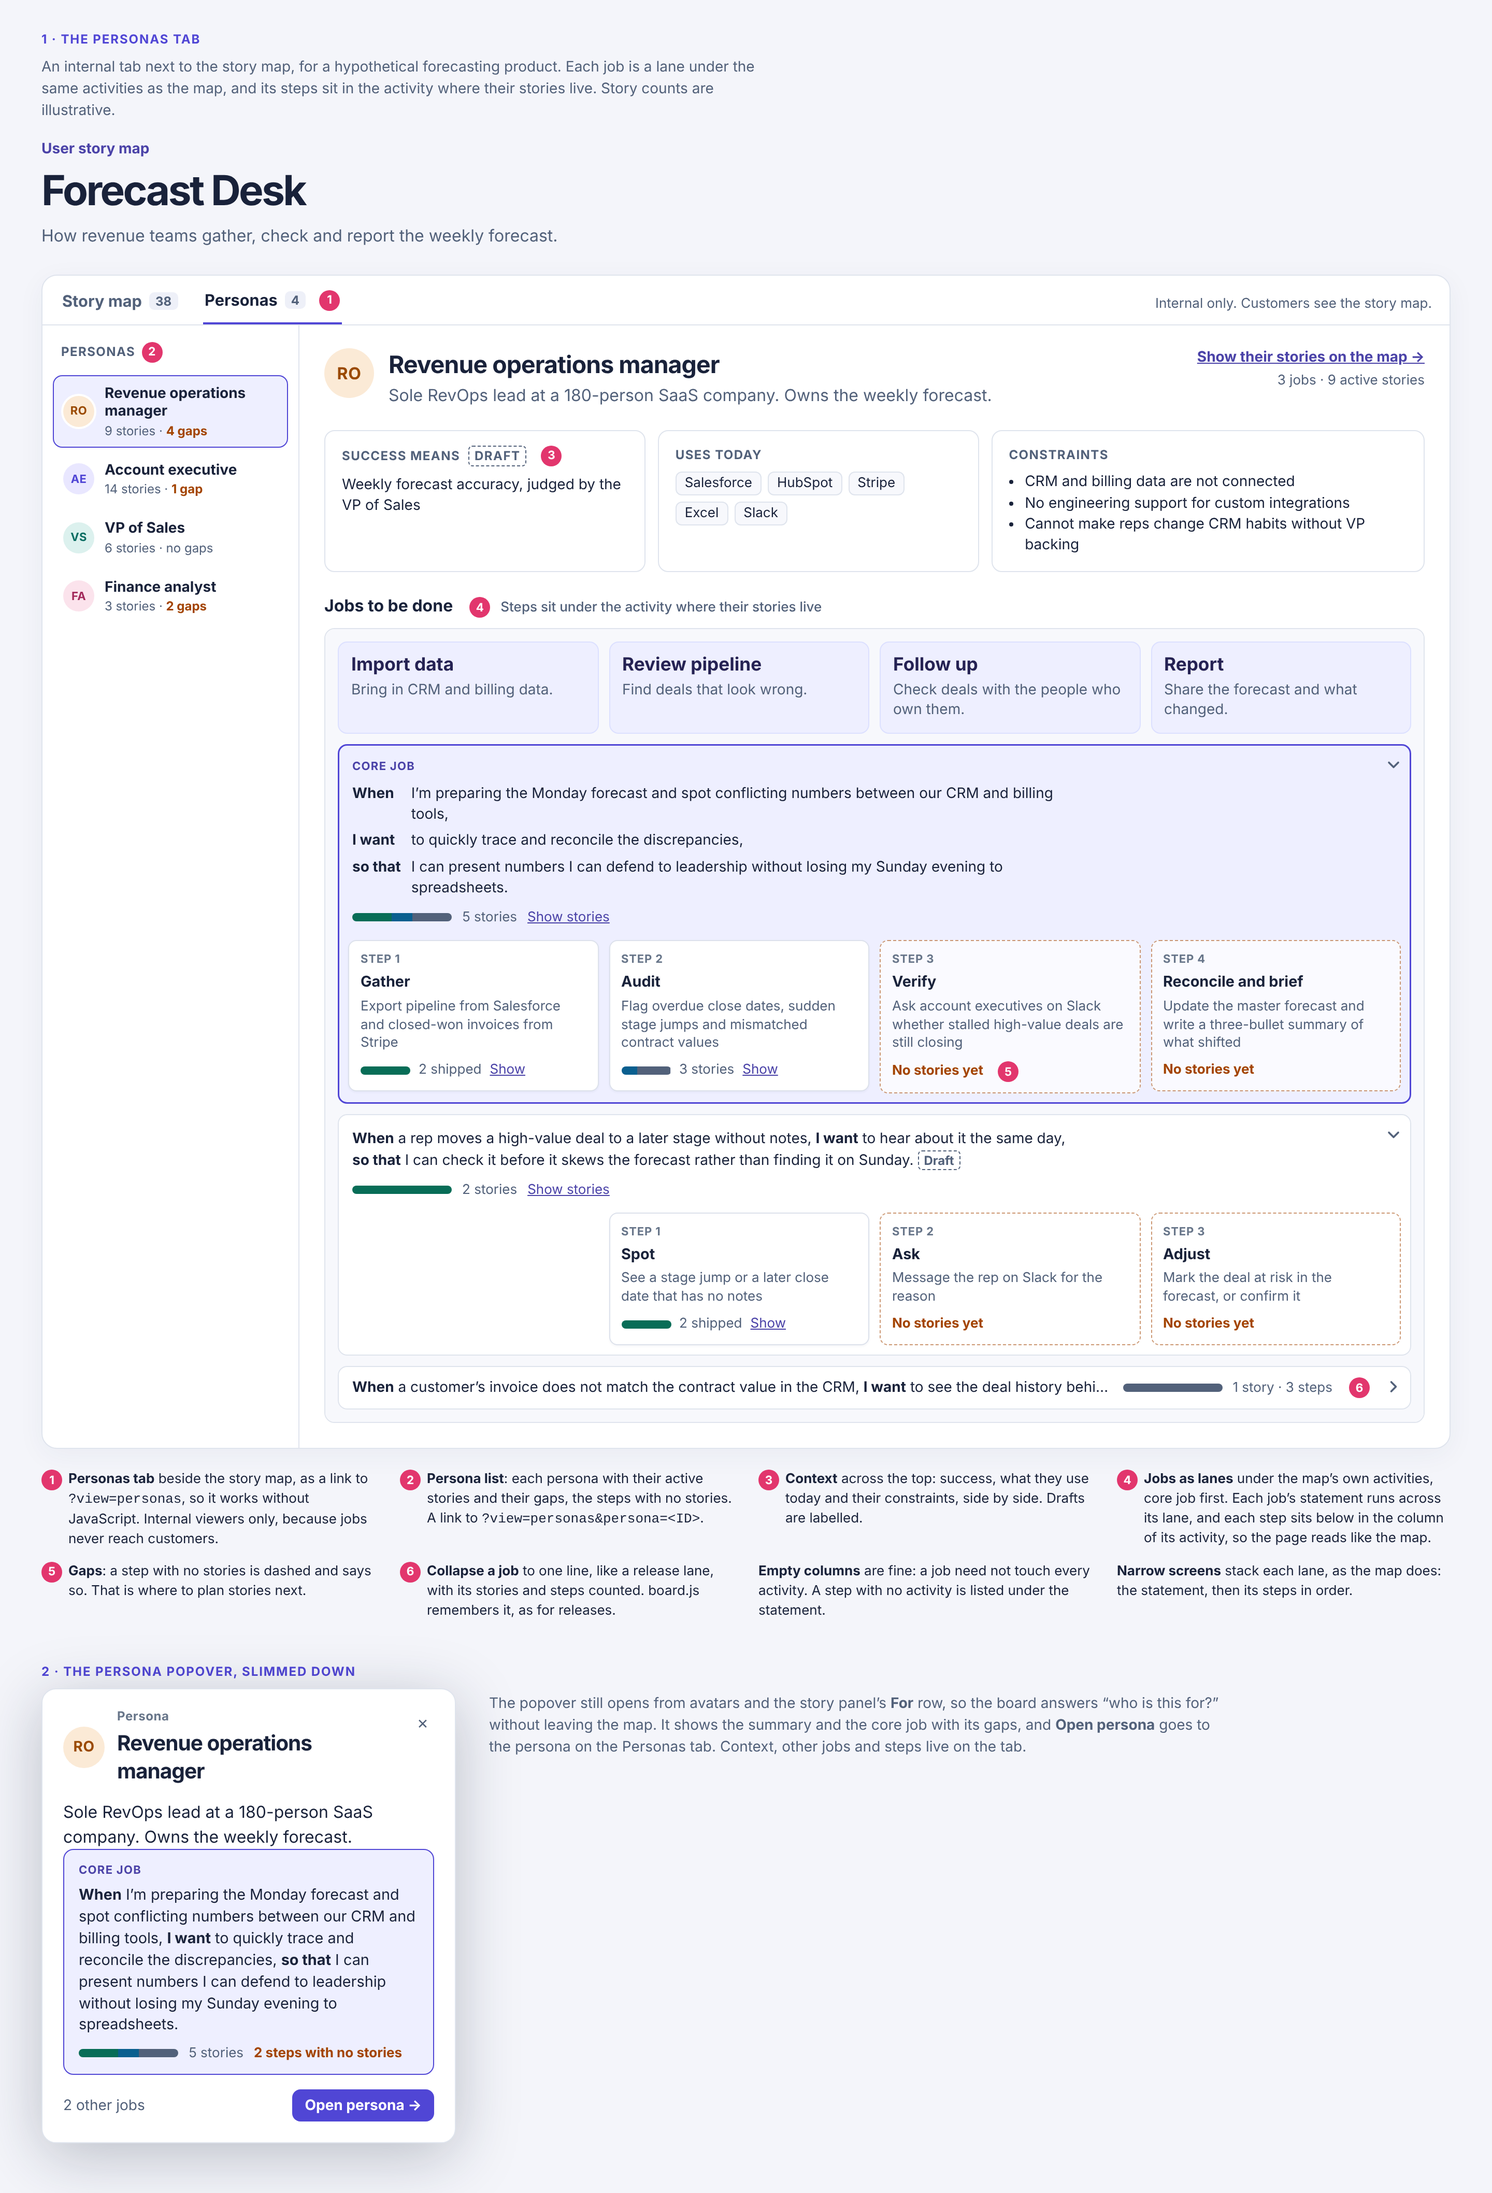
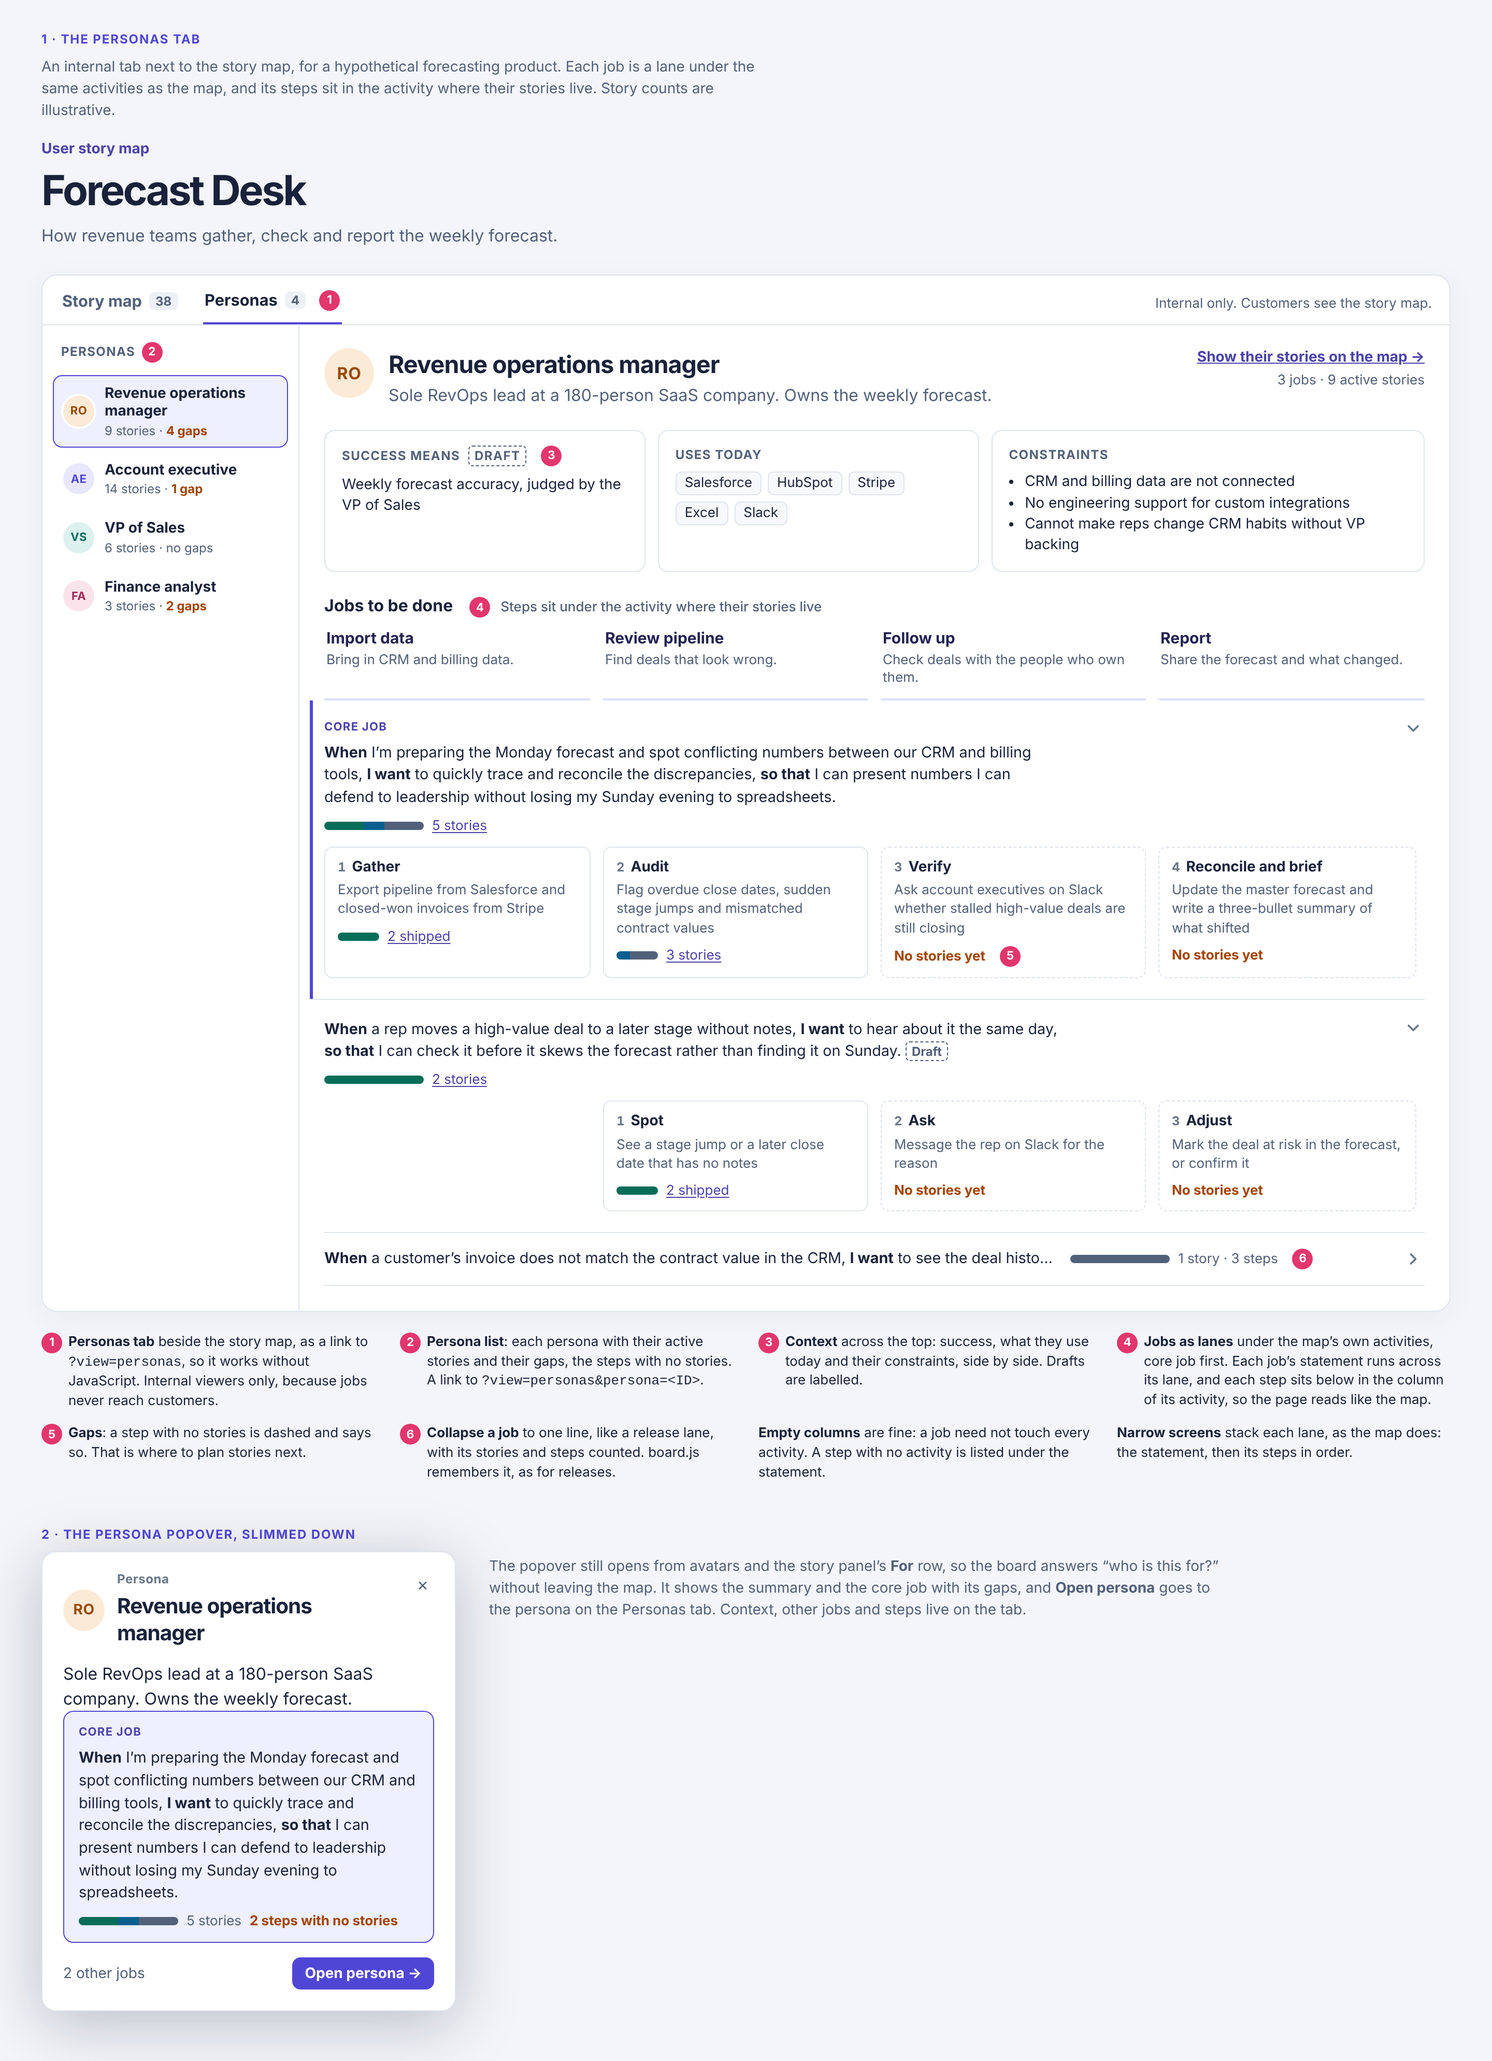
ESM-911: Calm the jobs to be done lanes in the Personas tab mockup
Drop the box around the section and each lane, split lanes with a rule,
mark the core job with an accent edge, flatten step cards, put the step
number beside its title, make the story count the link, and use one
statement format. Gaps stay dashed and say so. No information removed.

Claude-Session: https://claude.ai/code/session_01Lq2MQSpe3eM9QABbsSvSfC

diff --git a/docs/plans/persona-page-mockup.html b/docs/plans/persona-page-mockup.html
@@ -56,40 +56,38 @@
   .esm-uses { display: flex; flex-wrap: wrap; gap: 6px; padding: 0 !important; list-style: none; }
   .esm-uses li { padding: 1px 8px; border: 1px solid var(--esm-line); border-radius: 6px; background: var(--esm-canvas); font-size: .8125rem; }
 
-  /* Jobs as lanes under the map's activities */
+  /* Jobs as lanes under the map's activities.
+     Kept quiet on purpose: no box around the section or each lane, lanes split by a rule,
+     the core job marked by an accent edge, and flat step cards with the count as the link. */
   .esm-section-title { display: flex; align-items: baseline; gap: 10px; margin: 0 0 10px; font-size: 1rem; font-weight: 700; }
   .esm-section-title span:not(.mock-callout) { color: var(--esm-muted); font-size: .8125rem; font-weight: 500; }
-  .esm-jobs-map { border: 1px solid var(--esm-line); border-radius: 10px; overflow: hidden; }
-  .esm-jobs-map .esm-grid { grid-template-columns: repeat(var(--esm-columns), minmax(10rem, 1fr)); min-width: 0; }
-  .esm-jobs-map .esm-job-lane { row-gap: 0; }
-  .esm-job-cell { grid-column: 1 / -1; }
-  .esm-job-cell .esm-job-statement { max-width: 78ch; }
-  .esm-job-lane { position: relative; border-radius: 9px; background: var(--esm-paper); box-shadow: inset 0 0 0 1px var(--esm-line); }
-  .esm-job-lane[data-core] { background: var(--esm-activity-bg); box-shadow: inset 0 0 0 1.5px var(--esm-accent); }
-  .esm-job-cell { display: grid; align-content: start; gap: 10px; min-width: 0; padding: 14px 14px 4px; }
-  .esm-job-label { display: flex; align-items: center; gap: 8px; color: var(--esm-accent-ink); font-size: .6875rem; font-weight: 750; letter-spacing: .06em; text-transform: uppercase; }
-  .esm-job-toggle { position: absolute; top: 12px; left: calc(17rem - 6px); display: none; }
-  .esm-lane-chevron { position: absolute; top: 11px; right: 8px; color: var(--esm-muted); }
-  .esm-job-cell { position: relative; padding-right: 44px; }
-  .esm-job-statement { margin: 0; font-size: .875rem; line-height: 1.45; }
+  .esm-jobs-map .esm-grid { grid-template-columns: repeat(var(--esm-columns), minmax(10rem, 1fr)); min-width: 0; padding: 0; background: none; row-gap: 0; }
+  .esm-jobs-map .esm-row { column-gap: 12px; }
+  .esm-jobs-map .esm-activity { padding: 0 2px 10px; border: 0; border-bottom: 2px solid var(--esm-activity-line); border-radius: 0; background: none; }
+  .esm-jobs-map .esm-activity-title { font-size: .9375rem; }
+  .esm-jobs-map .esm-activity-summary { font-size: .8125rem; }
+  .esm-job-lane { position: relative; row-gap: 12px; padding: 18px 0 20px; border-bottom: 1px solid var(--esm-line); }
+  .esm-job-lane[data-core] { padding-left: 14px; margin-left: -14px; box-shadow: inset 3px 0 0 var(--esm-accent); }
+  .esm-job-lane[data-core] .esm-job-cell { padding-left: 0; }
+  .esm-job-cell { position: relative; grid-column: 1 / -1; display: grid; align-content: start; gap: 8px; min-width: 0; padding-right: 36px; }
+  .esm-job-label { color: var(--esm-accent-ink); font-size: .6875rem; font-weight: 750; letter-spacing: .06em; text-transform: uppercase; }
+  .esm-lane-chevron { position: absolute; top: 0; right: 2px; color: var(--esm-faint); }
+  .esm-job-statement { max-width: 78ch; margin: 0; font-size: .9rem; line-height: 1.5; }
   .esm-job-statement b { font-weight: 650; }
-  .esm-job-statement-lines { display: grid; grid-template-columns: max-content minmax(0, 1fr); gap: 5px 10px; }
-  .esm-job-meta { display: flex; flex-wrap: wrap; align-items: center; gap: 6px 10px; margin: 0; color: var(--esm-muted); font-size: .8125rem; }
-  .esm-job-meta a { color: var(--esm-accent-ink); }
-  .esm-step-card { display: grid; align-content: start; gap: 5px; padding: 10px 11px; border: 1px solid var(--esm-card-line); border-radius: 8px; background: var(--esm-paper); box-shadow: 0 1px 2px var(--esm-shadow); font-size: .8125rem; line-height: 1.38; }
-  .esm-step-card[data-gap] { border-style: dashed; border-color: color-mix(in srgb, var(--esm-status-blocked) 55%, transparent); box-shadow: none; background: color-mix(in srgb, var(--esm-paper) 70%, transparent); }
-  .esm-step-num { color: var(--esm-faint); font-size: .6875rem; font-weight: 700; letter-spacing: .04em; text-transform: uppercase; }
-  .esm-step-card .esm-card-title { font-size: .9rem; }
+  .esm-job-meta { display: flex; flex-wrap: wrap; align-items: center; gap: 6px 8px; margin: 0; color: var(--esm-muted); font-size: .8125rem; }
+  .esm-job-meta a, .esm-step-cov a { color: var(--esm-accent-ink); text-underline-offset: 2px; }
+  .esm-jobs-map .esm-cell { min-height: 0; padding: 0; }
+  .esm-step-card { display: grid; align-content: start; gap: 4px; height: 100%; box-sizing: border-box; padding: 10px 12px; border: 1px solid var(--esm-line); border-radius: 8px; background: var(--esm-paper); font-size: .8125rem; line-height: 1.4; }
+  .esm-step-card[data-gap] { border-style: dashed; border-color: var(--esm-card-line); background: transparent; }
+  .esm-step-card .esm-card-title { display: flex; align-items: baseline; gap: 6px; font-size: .875rem; }
+  .esm-step-num { color: var(--esm-faint); font-size: .75rem; font-weight: 700; font-variant-numeric: tabular-nums; }
   .esm-step-text { color: var(--esm-muted); }
-  .esm-step-cov { display: flex; flex-wrap: nowrap; white-space: nowrap; align-items: center; gap: 6px 8px; margin-top: 3px; color: var(--esm-muted); }
-  .esm-step-cov .esm-bar { width: 48px; }
-  .esm-step-cov a { color: var(--esm-accent-ink); }
-  .esm-jobs-map .esm-cell { padding: 10px 0; }
-  .esm-jobs-map .esm-row > .esm-cell:last-child { padding-right: 10px; }
-  .esm-jobs-map .esm-job-lane > .esm-cell:nth-child(2) { padding-left: 10px; }
-  .esm-job-lane[data-collapsed] { display: flex; align-items: center; gap: 12px; padding: 11px 40px 11px 14px; font-size: .875rem; }
+  .esm-step-cov { display: flex; align-items: center; gap: 8px; margin-top: 4px; color: var(--esm-muted); white-space: nowrap; }
+  .esm-step-cov .esm-bar { width: 40px; }
+  .esm-job-lane[data-collapsed] { display: flex; align-items: center; gap: 12px; padding: 14px 36px 14px 0; font-size: .875rem; }
   .esm-job-lane[data-collapsed] .esm-job-statement { flex: 1; min-width: 0; overflow: hidden; text-overflow: ellipsis; white-space: nowrap; }
   .esm-job-lane[data-collapsed] .esm-job-meta { flex: none; }
+  .esm-job-lane[data-collapsed] .esm-lane-chevron { top: 50%; margin-top: -9px; }
   .esm-lane-chevron[data-closed] { transform: rotate(-90deg); }
 
   /* Slimmer persona popover */
@@ -162,25 +160,25 @@
                   <div class="esm-job-cell">
                     <svg class="esm-lane-chevron" width="18" height="18" viewBox="0 0 16 16" fill="none" stroke="currentColor" stroke-width="1.6" stroke-linecap="round" stroke-linejoin="round" aria-hidden="true"><path d="m4 6 4 4 4-4"/></svg>
                     <span class="esm-job-label">Core job</span>
-                    <p class="esm-job-statement esm-job-statement-lines"><b>When</b> <span>I’m preparing the Monday forecast and spot conflicting numbers between our CRM and billing tools,</span> <b>I want</b> <span>to quickly trace and reconcile the discrepancies,</span> <b>so that</b> <span>I can present numbers I can defend to leadership without losing my Sunday evening to spreadsheets.</span></p>
-                    <p class="esm-job-meta"><span class="esm-bar"><span data-status="shipped" style="width:40%"></span><span data-status="merged" style="width:20%"></span><span data-status="planned" style="width:40%"></span></span><span>5 stories</span><a href="#">Show stories</a></p>
+                    <p class="esm-job-statement"><b>When</b> I’m preparing the Monday forecast and spot conflicting numbers between our CRM and billing tools, <b>I want</b> to quickly trace and reconcile the discrepancies, <b>so that</b> I can present numbers I can defend to leadership without losing my Sunday evening to spreadsheets.</p>
+                    <p class="esm-job-meta"><span class="esm-bar"><span data-status="shipped" style="width:40%"></span><span data-status="merged" style="width:20%"></span><span data-status="planned" style="width:40%"></span></span><a href="#">5 stories</a></p>
                   </div>
-                  <div class="esm-cell"><div class="esm-step-card"><span class="esm-step-num">Step 1</span><span class="esm-card-title">Gather</span><span class="esm-step-text">Export pipeline from Salesforce and closed-won invoices from Stripe</span><span class="esm-step-cov"><span class="esm-bar"><span data-status="shipped" style="width:100%"></span></span>2 shipped <a href="#">Show</a></span></div></div>
-                  <div class="esm-cell"><div class="esm-step-card"><span class="esm-step-num">Step 2</span><span class="esm-card-title">Audit</span><span class="esm-step-text">Flag overdue close dates, sudden stage jumps and mismatched contract values</span><span class="esm-step-cov"><span class="esm-bar"><span data-status="merged" style="width:33%"></span><span data-status="planned" style="width:67%"></span></span>3 stories <a href="#">Show</a></span></div></div>
-                  <div class="esm-cell"><div class="esm-step-card" data-gap><span class="esm-step-num">Step 3</span><span class="esm-card-title">Verify</span><span class="esm-step-text">Ask account executives on Slack whether stalled high-value deals are still closing</span><span class="esm-step-cov"><span class="esm-job-gap">No stories yet</span><span class="mock-callout">5</span></span></div></div>
-                  <div class="esm-cell"><div class="esm-step-card" data-gap><span class="esm-step-num">Step 4</span><span class="esm-card-title">Reconcile and brief</span><span class="esm-step-text">Update the master forecast and write a three-bullet summary of what shifted</span><span class="esm-step-cov"><span class="esm-job-gap">No stories yet</span></span></div></div>
+                  <div class="esm-cell"><div class="esm-step-card"><span class="esm-card-title"><span class="esm-step-num" aria-label="Step 1">1</span>Gather</span><span class="esm-step-text">Export pipeline from Salesforce and closed-won invoices from Stripe</span><span class="esm-step-cov"><span class="esm-bar"><span data-status="shipped" style="width:100%"></span></span><a href="#">2 shipped</a></span></div></div>
+                  <div class="esm-cell"><div class="esm-step-card"><span class="esm-card-title"><span class="esm-step-num" aria-label="Step 2">2</span>Audit</span><span class="esm-step-text">Flag overdue close dates, sudden stage jumps and mismatched contract values</span><span class="esm-step-cov"><span class="esm-bar"><span data-status="merged" style="width:33%"></span><span data-status="planned" style="width:67%"></span></span><a href="#">3 stories</a></span></div></div>
+                  <div class="esm-cell"><div class="esm-step-card" data-gap><span class="esm-card-title"><span class="esm-step-num" aria-label="Step 3">3</span>Verify</span><span class="esm-step-text">Ask account executives on Slack whether stalled high-value deals are still closing</span><span class="esm-step-cov"><span class="esm-job-gap">No stories yet</span><span class="mock-callout">5</span></span></div></div>
+                  <div class="esm-cell"><div class="esm-step-card" data-gap><span class="esm-card-title"><span class="esm-step-num" aria-label="Step 4">4</span>Reconcile and brief</span><span class="esm-step-text">Update the master forecast and write a three-bullet summary of what shifted</span><span class="esm-step-cov"><span class="esm-job-gap">No stories yet</span></span></div></div>
                 </div>
 
                 <div class="esm-row esm-job-lane">
                   <div class="esm-job-cell">
                     <svg class="esm-lane-chevron" width="18" height="18" viewBox="0 0 16 16" fill="none" stroke="currentColor" stroke-width="1.6" stroke-linecap="round" stroke-linejoin="round" aria-hidden="true"><path d="m4 6 4 4 4-4"/></svg>
                     <p class="esm-job-statement"><b>When</b> a rep moves a high-value deal to a later stage without notes, <b>I want</b> to hear about it the same day, <b>so that</b> I can check it before it skews the forecast rather than finding it on Sunday. <span class="esm-draft">Draft</span></p>
-                    <p class="esm-job-meta"><span class="esm-bar"><span data-status="shipped" style="width:100%"></span></span><span>2 stories</span><a href="#">Show stories</a></p>
+                    <p class="esm-job-meta"><span class="esm-bar"><span data-status="shipped" style="width:100%"></span></span><a href="#">2 stories</a></p>
                   </div>
                   <div class="esm-cell"></div>
-                  <div class="esm-cell"><div class="esm-step-card"><span class="esm-step-num">Step 1</span><span class="esm-card-title">Spot</span><span class="esm-step-text">See a stage jump or a later close date that has no notes</span><span class="esm-step-cov"><span class="esm-bar"><span data-status="shipped" style="width:100%"></span></span>2 shipped <a href="#">Show</a></span></div></div>
-                  <div class="esm-cell"><div class="esm-step-card" data-gap><span class="esm-step-num">Step 2</span><span class="esm-card-title">Ask</span><span class="esm-step-text">Message the rep on Slack for the reason</span><span class="esm-step-cov"><span class="esm-job-gap">No stories yet</span></span></div></div>
-                  <div class="esm-cell"><div class="esm-step-card" data-gap><span class="esm-step-num">Step 3</span><span class="esm-card-title">Adjust</span><span class="esm-step-text">Mark the deal at risk in the forecast, or confirm it</span><span class="esm-step-cov"><span class="esm-job-gap">No stories yet</span></span></div></div>
+                  <div class="esm-cell"><div class="esm-step-card"><span class="esm-card-title"><span class="esm-step-num" aria-label="Step 1">1</span>Spot</span><span class="esm-step-text">See a stage jump or a later close date that has no notes</span><span class="esm-step-cov"><span class="esm-bar"><span data-status="shipped" style="width:100%"></span></span><a href="#">2 shipped</a></span></div></div>
+                  <div class="esm-cell"><div class="esm-step-card" data-gap><span class="esm-card-title"><span class="esm-step-num" aria-label="Step 2">2</span>Ask</span><span class="esm-step-text">Message the rep on Slack for the reason</span><span class="esm-step-cov"><span class="esm-job-gap">No stories yet</span></span></div></div>
+                  <div class="esm-cell"><div class="esm-step-card" data-gap><span class="esm-card-title"><span class="esm-step-num" aria-label="Step 3">3</span>Adjust</span><span class="esm-step-text">Mark the deal at risk in the forecast, or confirm it</span><span class="esm-step-cov"><span class="esm-job-gap">No stories yet</span></span></div></div>
                 </div>
 
                 <div class="esm-row esm-job-lane" data-collapsed>
